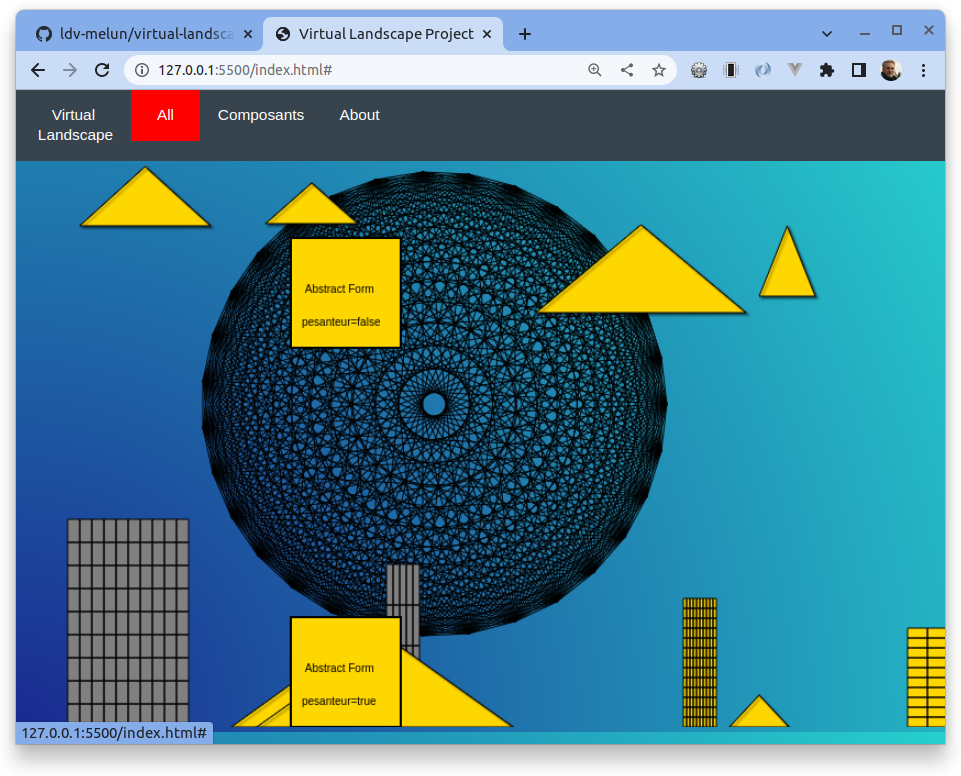
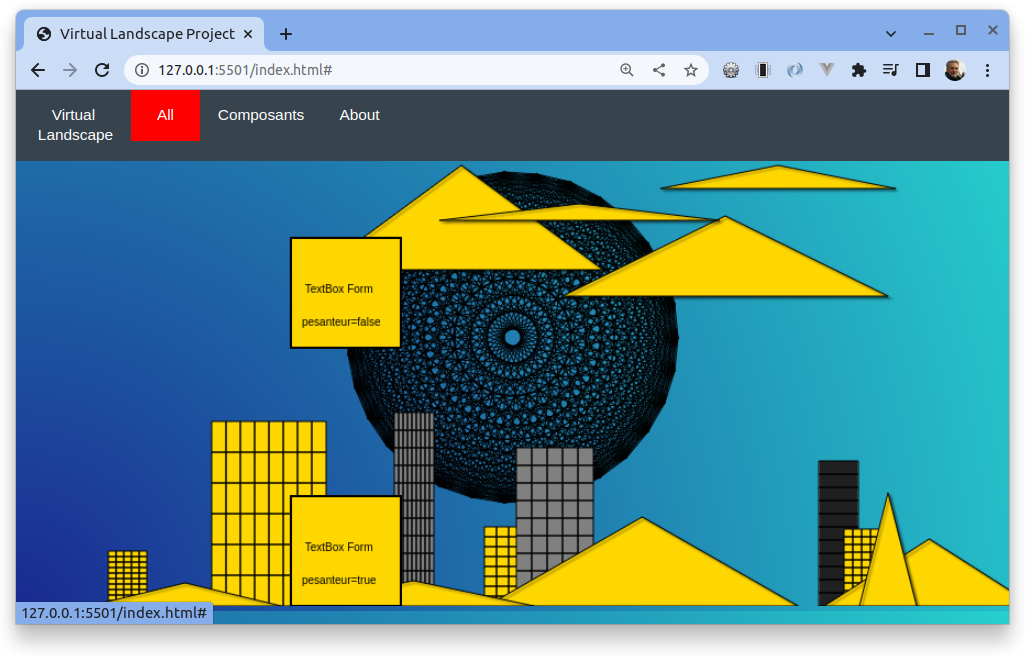
update TextBox and image readme

diff --git a/js/modules/TextBox.js b/js/modules/TextBox.js
@@ -45,7 +45,7 @@ export class TextBox extends AbstractForm {
 
     // dessine un texte
     ctx.fillStyle = 'black'
-    ctx.fillText(' Abstract Form', this.x + 10, new_y + 50);
+    ctx.fillText(' TextBox Form', this.x + 10, new_y + 50);
     ctx.fillText('pesanteur=' + this.pesanteur, this.x + 10, new_y + 80);
     // restores the styles from earlier
     // preventing the colors used here
